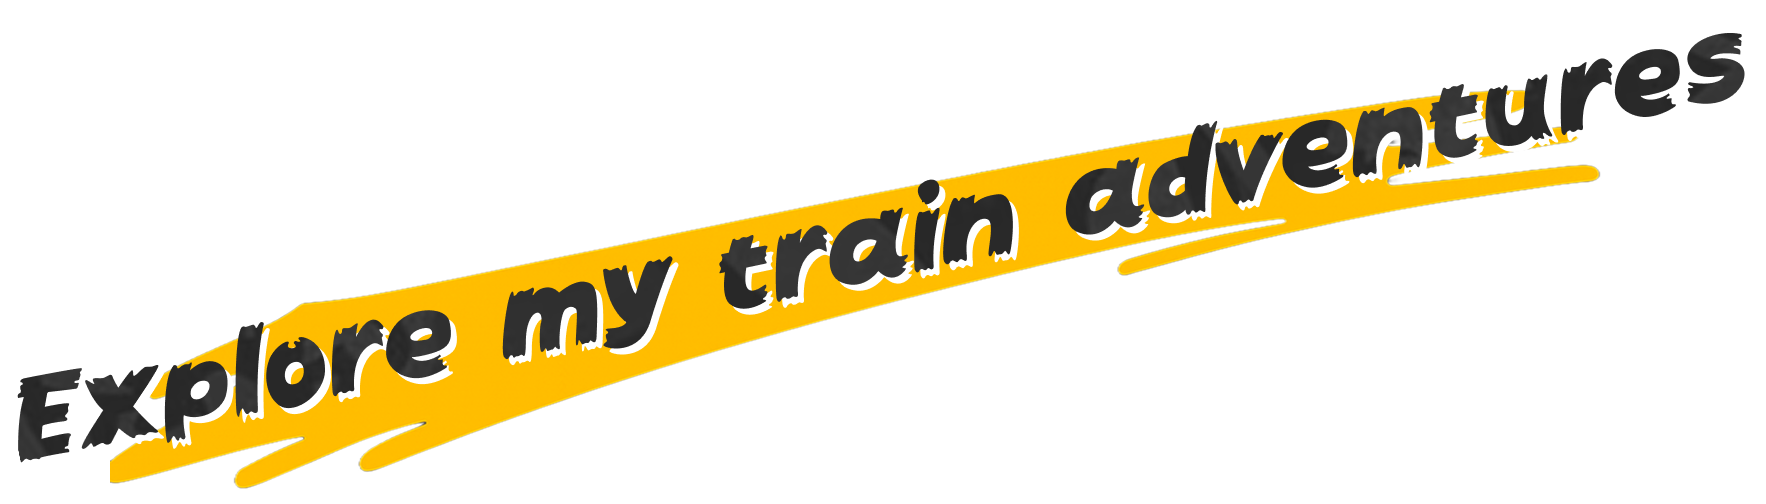
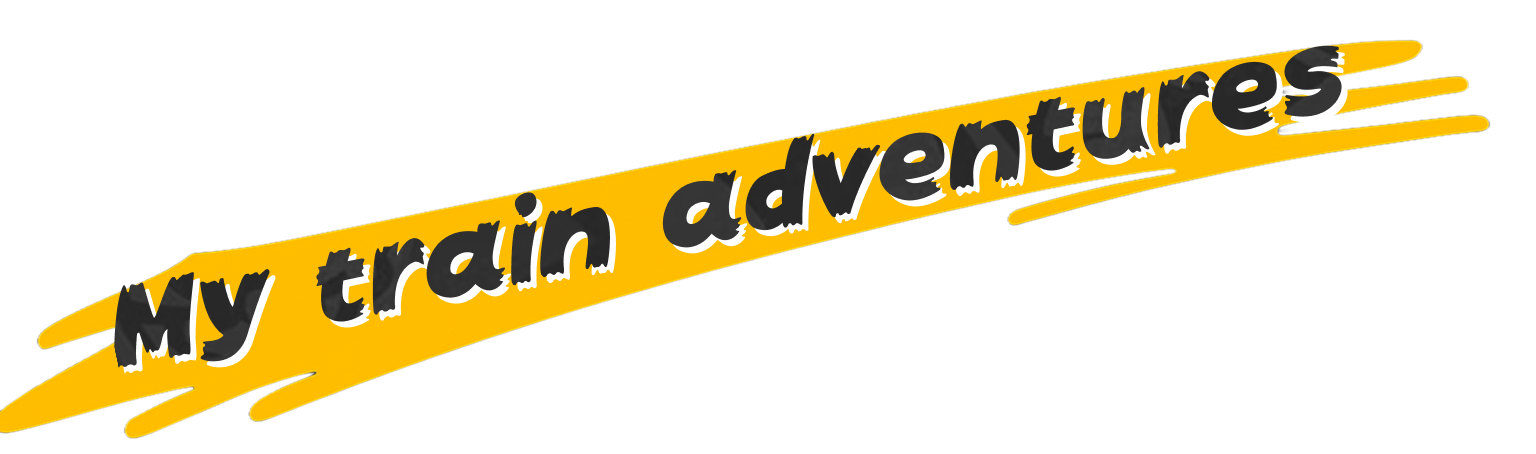
Add destinations title section with animated explore button
- Replace Recent Places text title with destinations_title.png image
- Add button_explore.png as interactive explore button with hover effects
- Implement animated button_explore_arrow.webp with infinite left-right movement
- Add new destination assets: destinations_title.png, destinations_subtitle.png
- Update journeys_subtitle.png asset
- Create moveArrow keyframe animation for subtle button interaction
- Position elements with consistent styling matching journeys section layout

🤖 Generated with [Claude Code](https://claude.com/claude-code)

Changed region(s): [[0.0, 0.0617, 1.0, 0.9868]]

diff --git a/app/page.tsx b/app/page.tsx
@@ -88,6 +88,11 @@ export default function Home() {
           0% { transform: translateX(-100%); }
           100% { transform: translateX(0); }
         }
+        @keyframes moveArrow {
+          0% { transform: translate(24rem, -5.2rem); }
+          50% { transform: translate(24.5rem, -5.3rem); }
+          100% { transform: translate(24rem, -5.2rem); }
+        }
         .animate-slide-in {
           animation: slide-in 0.3s ease-in-out forwards;
         }
@@ -404,11 +409,30 @@ export default function Home() {
         }}
       >
         <div className="max-w-7xl mx-auto">
-          <div className="flex justify-between items-center mb-12">
-            <h3 className="text-3xl font-bold text-gray-900">Recent Destinations</h3>
-            <Link href="/places" className="text-blue-600 hover:text-blue-700 font-medium">
-              View all places →
+          <div className="relative mb-12">
+            <img
+              src="/destinations_title.png"
+              alt="Recent Destinations"
+              className="h-auto max-w-4xl relative"
+              style={{ transform: 'translate(-5rem, -4rem)', zIndex: 20 }}
+            />
+            <Link href="/places" className="absolute" style={{ transform: 'translate(2rem, -8rem)', zIndex: 20 }}>
+              <img
+                src="/button_explore.png"
+                alt="Explore Places"
+                className="h-auto w-[28rem] hover:scale-105 transition-transform duration-200"
+              />
             </Link>
+            <img
+              src="/button_explore_arrow.webp"
+              alt="Arrow"
+              className="absolute h-auto w-8"
+              style={{
+                transform: 'translate(26rem, -5rem)',
+                zIndex: 20,
+                animation: 'moveArrow 1s ease-in-out infinite'
+              }}
+            />
           </div>
 
           <div className="grid sm:grid-cols-2 md:grid-cols-3 lg:grid-cols-4 gap-6">
